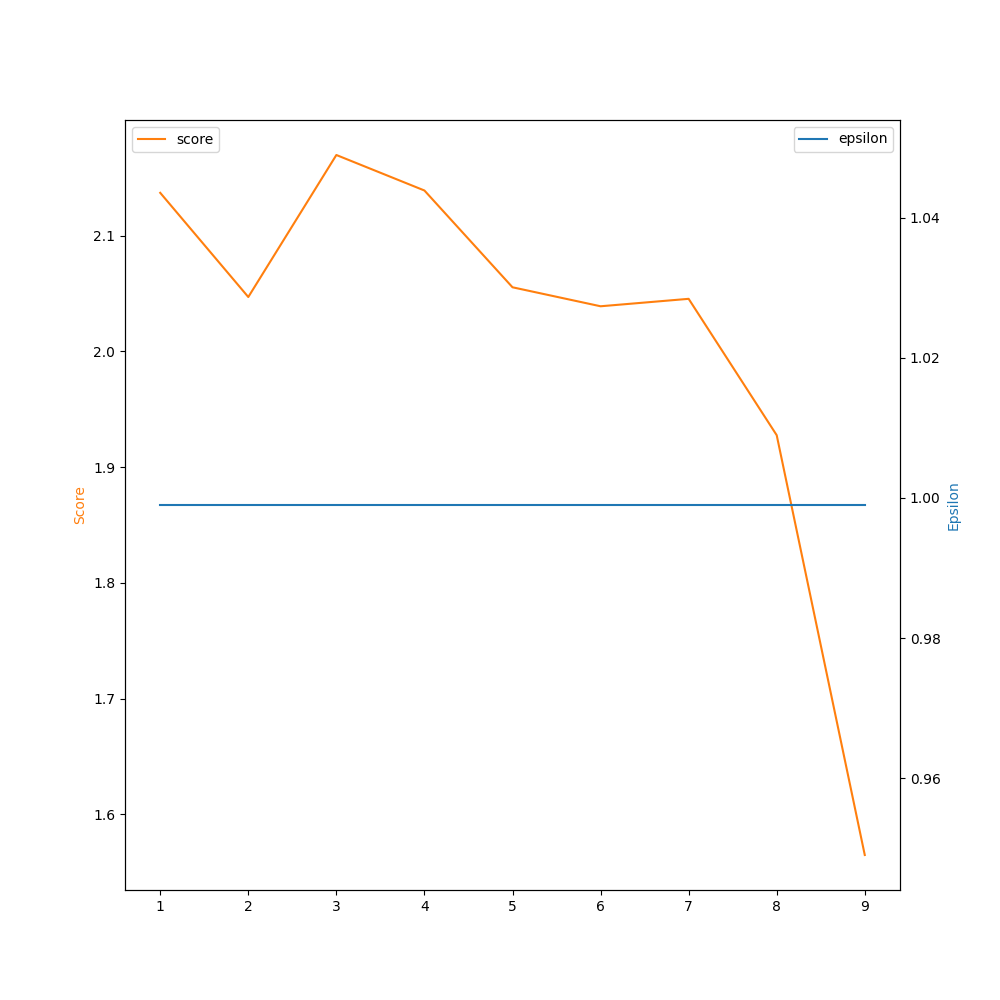
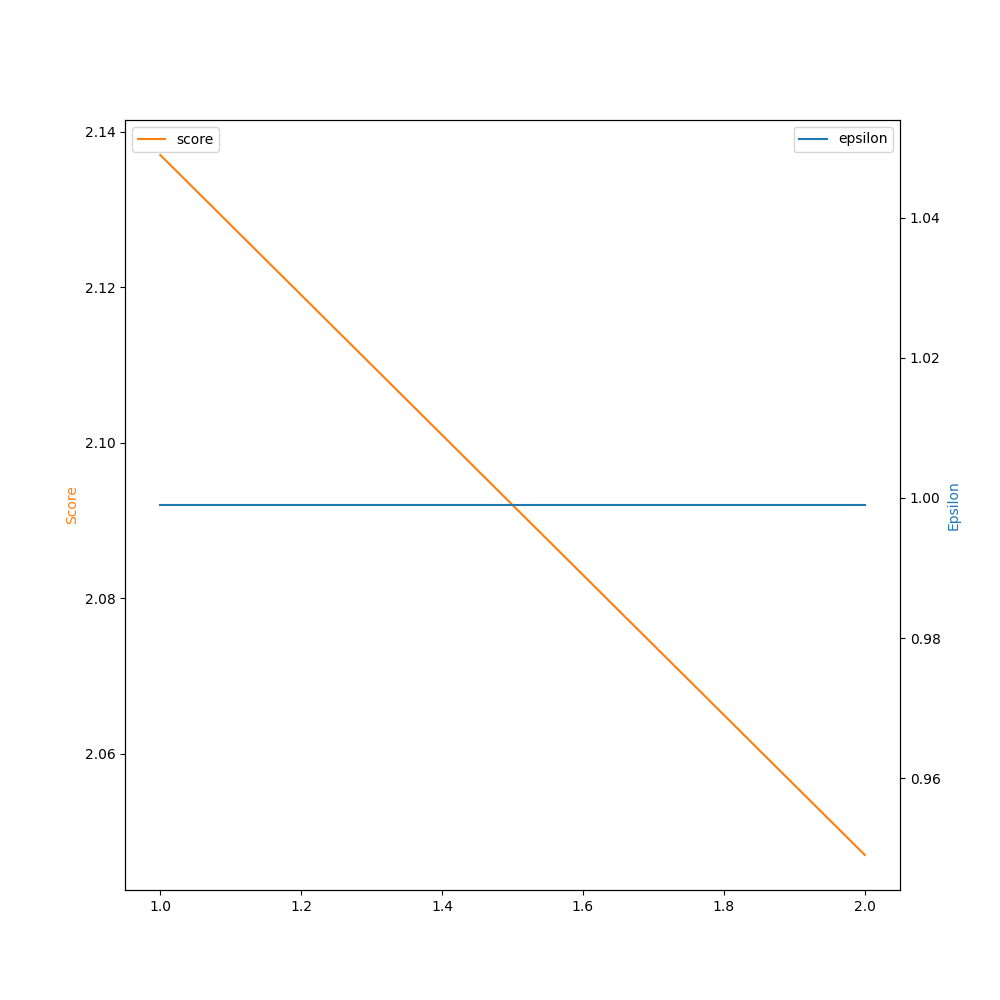
fix exponent

diff --git a/DQN/Agent5.py b/DQN/Agent5.py
@@ -91,7 +91,7 @@ class Agent5:
         sample = random.random()
         # self.epsilon = self.eps_end + (self.eps_max - self.eps_end) * \
         #     math.exp(-1. * episode/self.eps_decay)
-        self.epsilon= self.epsilon+ math.exp(10*episode-10000)
+        self.epsilon= self.epsilon+ -2**(10*episode-10000)
         # print("epsilon: "+str(self.epsilon)+" sample: "+str(sample)+"exploit: "+str(self.exploit)+" explore: "+str(self.explore))
         
        

diff --git a/test10.py b/test10.py
@@ -8,7 +8,7 @@ from core.utils import plotLearning
 from DQN.Agent5 import Agent5
 
 
-EPISODES=5000
+EPISODES=1000
 SHOW_EVERY=100
 STEPS=5000
 BATCH_SIZE = 64
